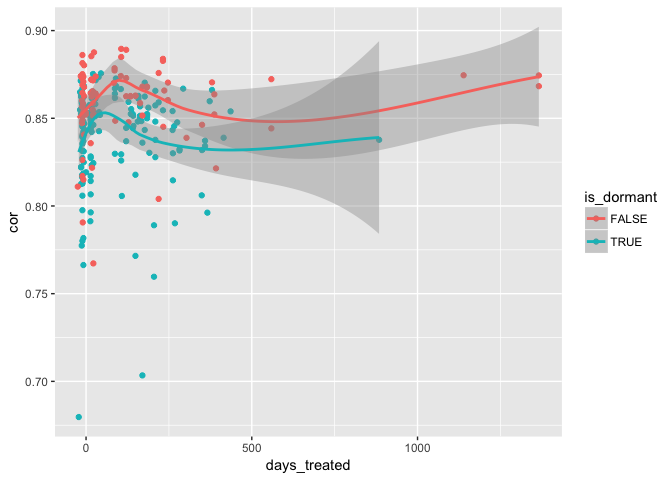
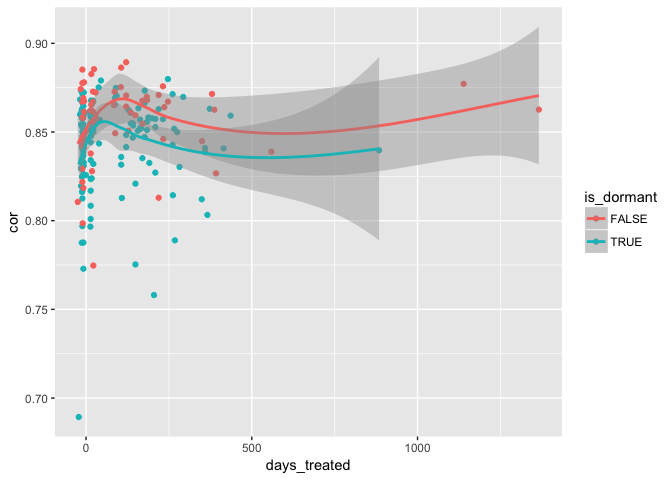
re-ran timepoint-correlations with updated combined dormset

diff --git a/combined/doc/timepoint-correlations.md b/combined/doc/timepoint-correlations.md
@@ -1,3 +1,5 @@
+Timepoint correlations
+================
 Dominic Pearce
 
 ``` r
